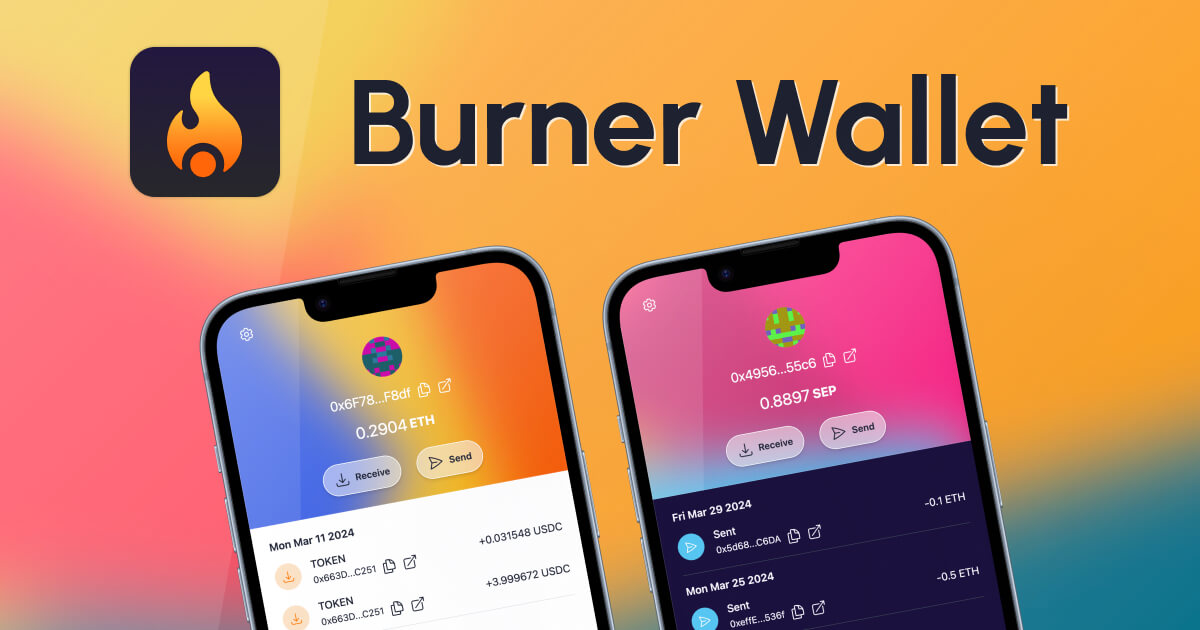
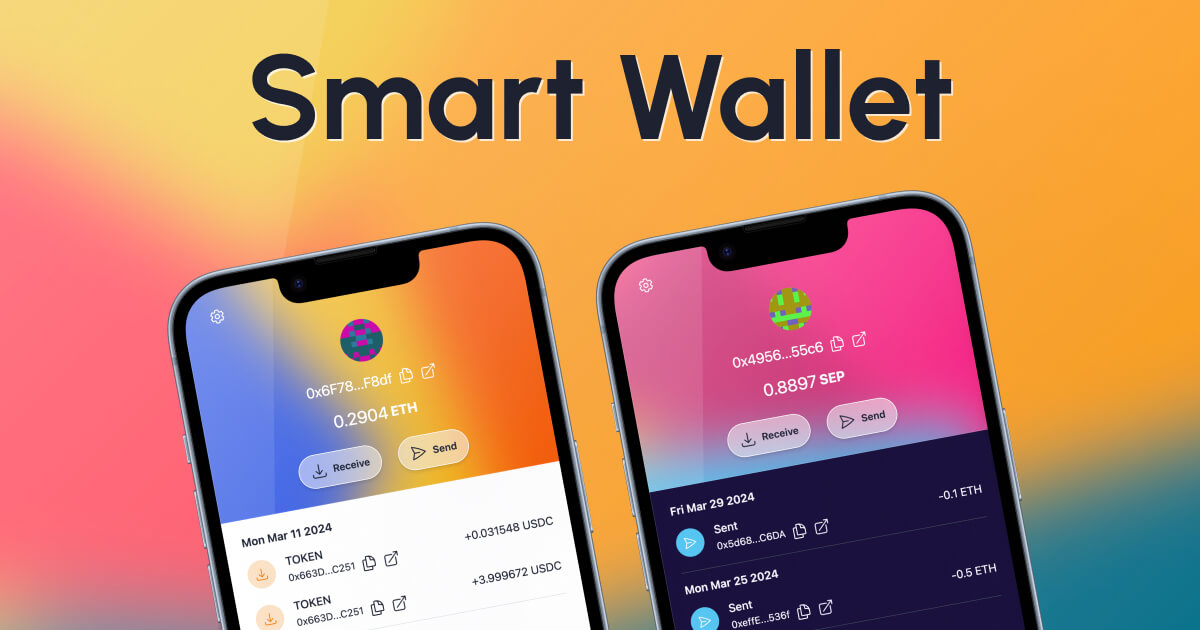
rename to smart wallet

Changed region(s): [[0.1233, 0.3016, 0.8942, 1.0], [0.0925, 0.0603, 0.8942, 0.3317]]

diff --git a/packages/nextjs/components/Header.tsx b/packages/nextjs/components/Header.tsx
@@ -104,7 +104,7 @@ export const Header = ({ updateHistory }: HeaderProps) => {
           <>
             <div className="flex items-center justify-center min-h-80 text-center">
               <div className="px-4">
-                <h1 className="text-3xl font-medium [text-shadow:_0_1px_1px_rgb(0_0_0_/_40%)]">Smart Burner Wallet</h1>
+                <h1 className="text-3xl font-medium [text-shadow:_0_1px_1px_rgb(0_0_0_/_40%)]">Smart Wallet</h1>
                 <p className="text-lg [text-shadow:_0_1px_1px_rgb(0_0_0_/_40%)]">
                   Quickly create and manage a smart wallet using passkeys. Backed by enterprise-grade security with
                   Coinbase.

diff --git a/packages/nextjs/app/layout.tsx b/packages/nextjs/app/layout.tsx
@@ -15,7 +15,7 @@ const onest = Onest({
 });
 
 export const metadata = getMetadata({
-  title: "Smart Burner Wallet",
+  title: "Smart Wallet",
   description: "Quickly create and manage a smart wallet using passkeys.",
 });
 
